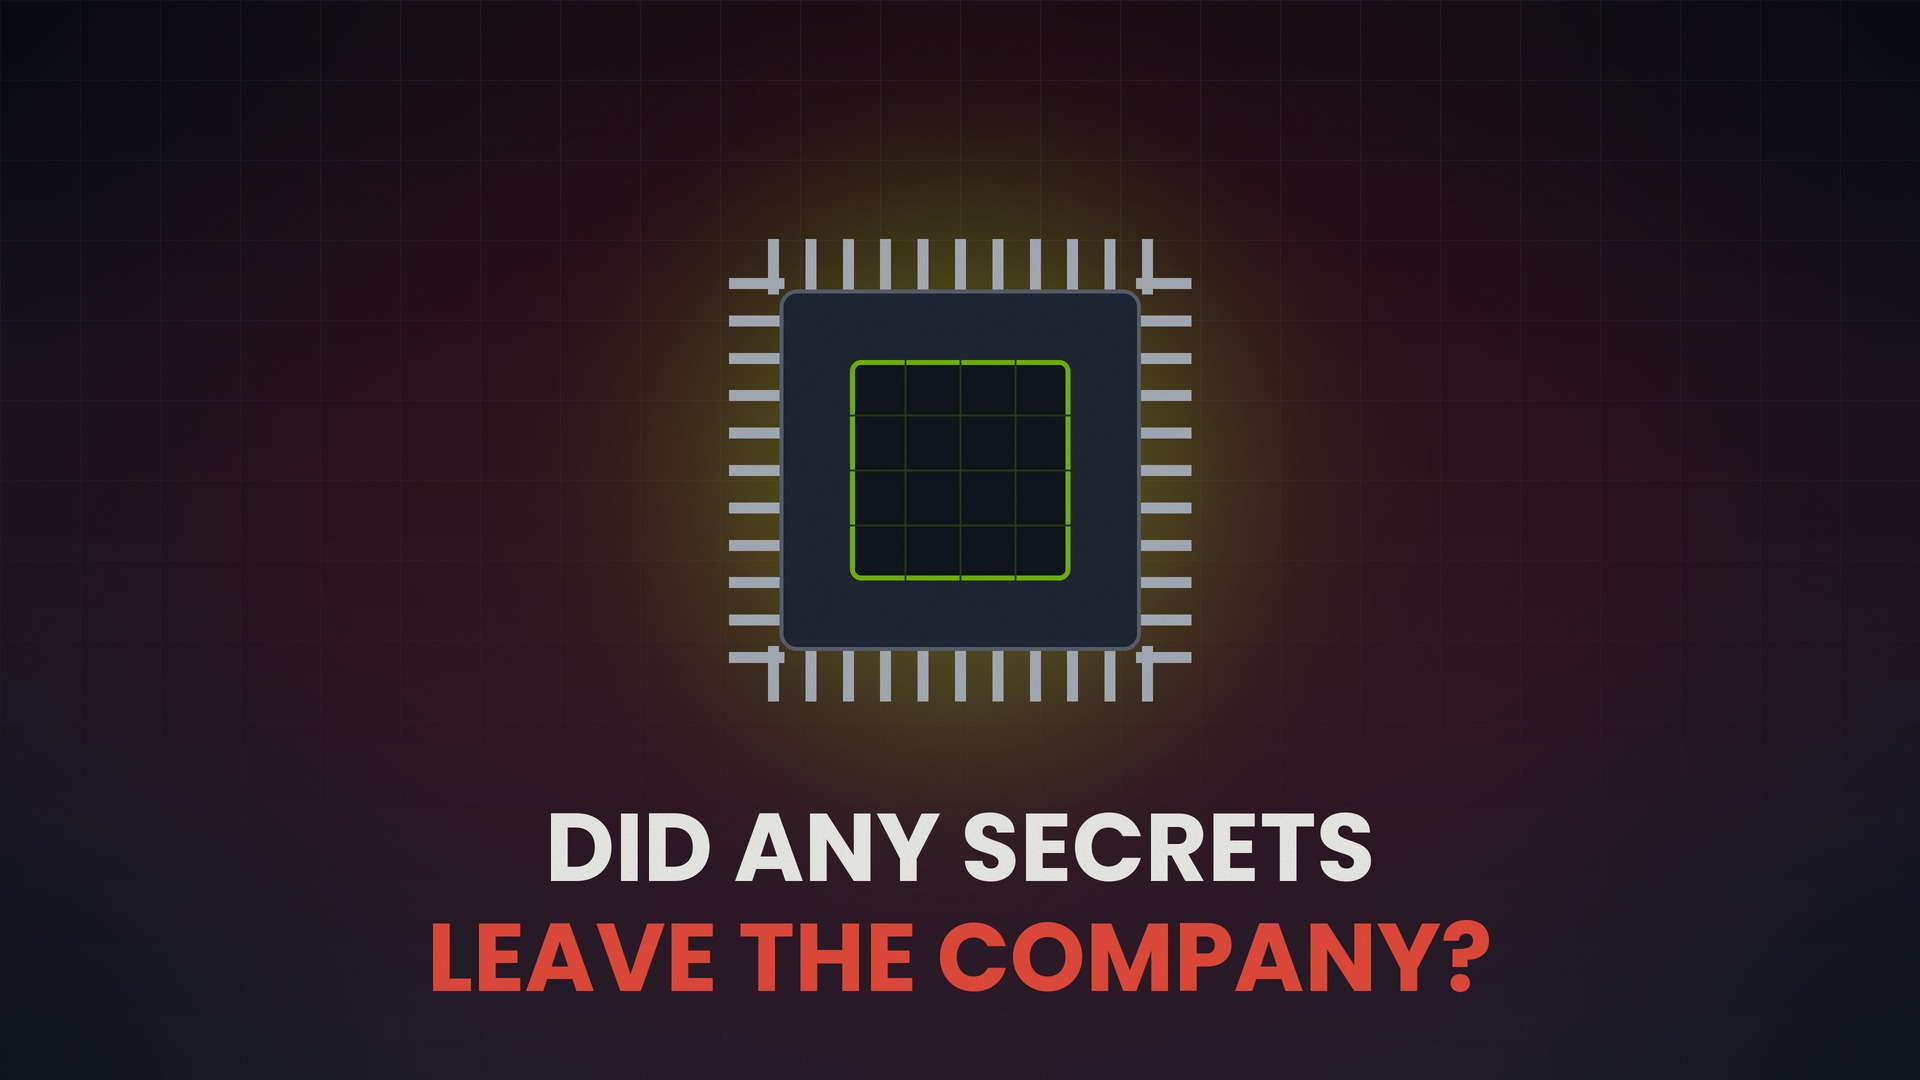
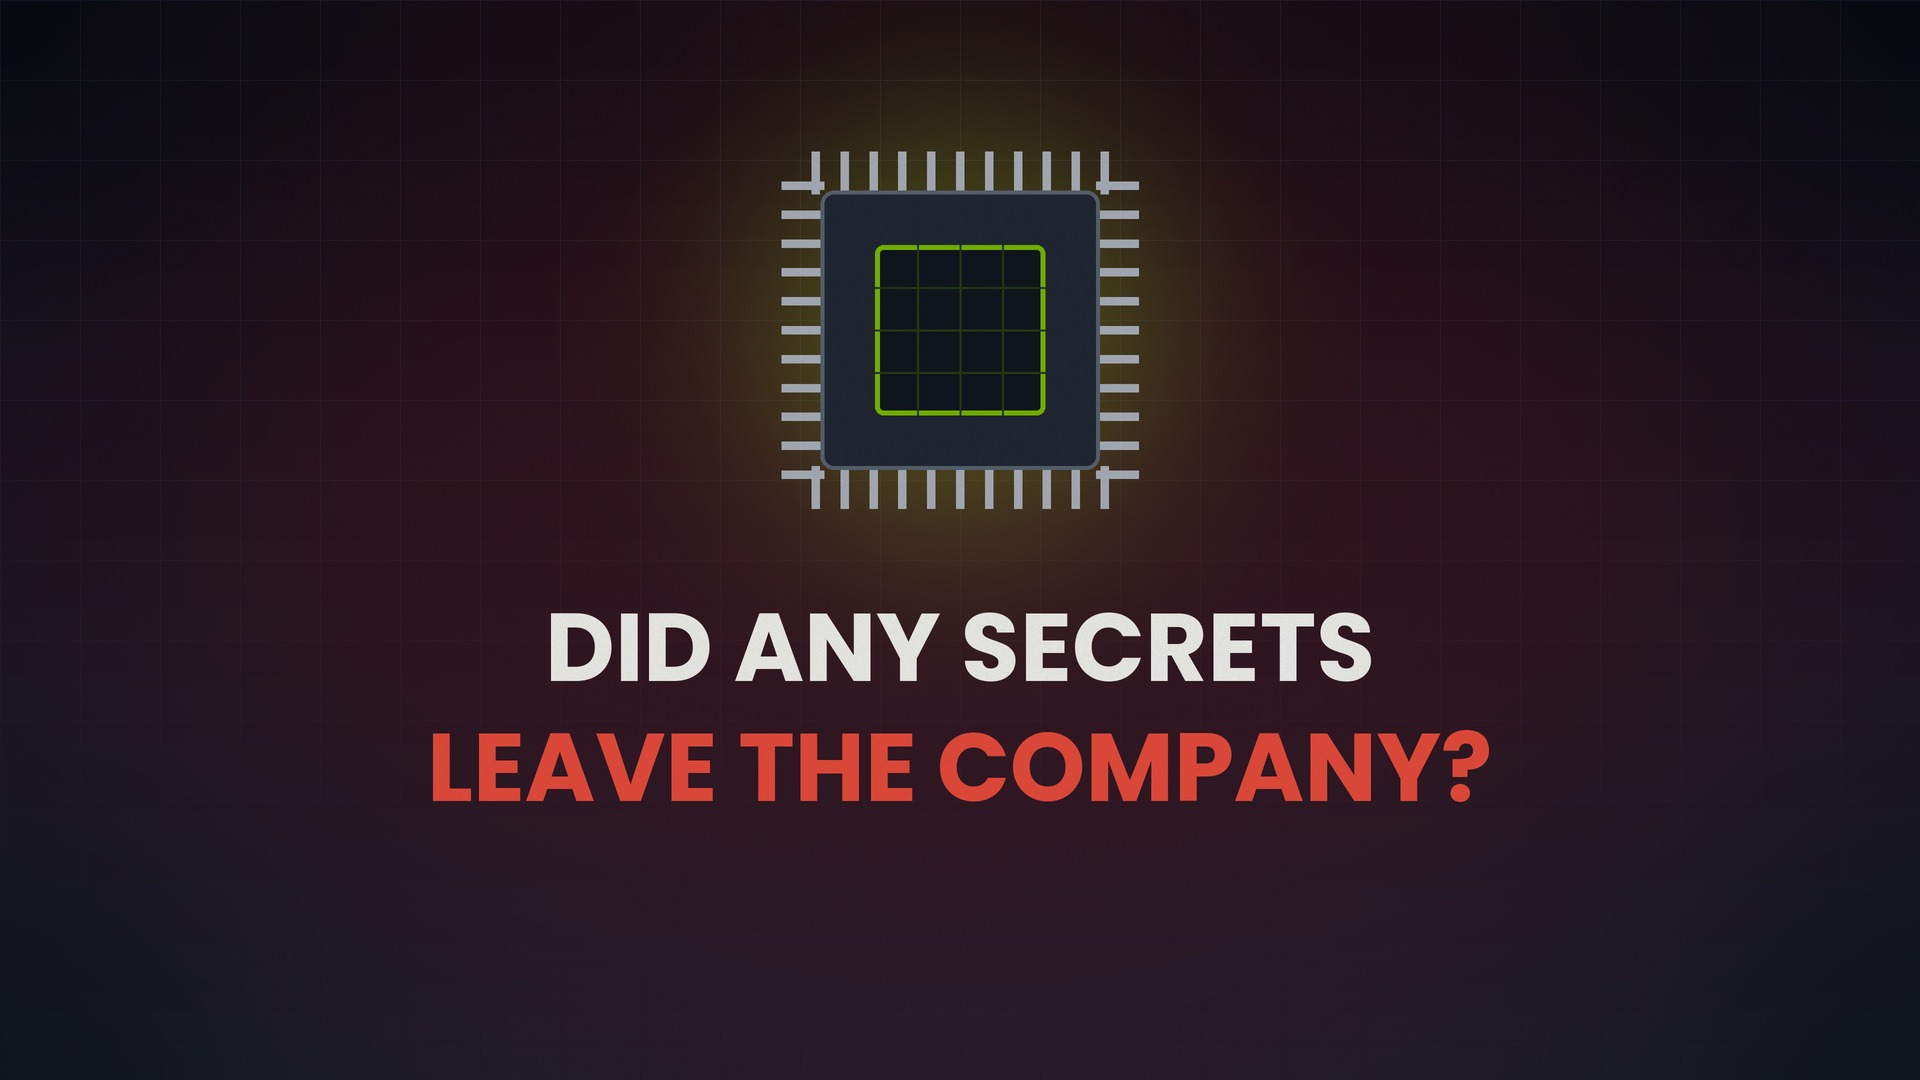
Add Nvidia explainer shots and thumbnail
Claude-Session: https://claude.ai/code/session_01M31u486guU47PUdU315KWu

Changed region(s): [[0.2188, 0.1222, 0.7812, 0.825], [0.2188, 0.8556, 0.7812, 0.9167]]

diff --git a/kit/render.py b/kit/render.py
@@ -67,7 +67,7 @@ RED, WHITE = r"{\c&H3C4CE8&}", r"{\c&HFFFFFF&}"
 ass = ["[Script Info]", "ScriptType: v4.00+", f"PlayResX: {W}", f"PlayResY: {H}", "",
        "[V4+ Styles]",
        "Format: Name, Fontname, Fontsize, PrimaryColour, SecondaryColour, OutlineColour, BackColour, Bold, Italic, Underline, StrikeOut, ScaleX, ScaleY, Spacing, Angle, BorderStyle, Outline, Shadow, Alignment, MarginL, MarginR, MarginV, Encoding",
-       "Style: Cap,Poppins,84,&H00FFFFFF,&H00FFFFFF,&H00101014,&H96000000,-1,0,0,0,100,100,1,0,1,5,0,5,60,60,0,1",
+       f"Style: Cap,Poppins,{int(os.environ.get('CAP_SIZE', '84'))},&H00FFFFFF,&H00FFFFFF,&H00101014,&H96000000,-1,0,0,0,100,100,1,0,1,5,0,5,60,60,0,1",
        "", "[Events]", "Format: Layer, Start, End, Style, Name, MarginL, MarginR, MarginV, Effect, Text"]
 ws = [w for w in words if norm(w["w"])]
 for k in range(0, len(ws), 2):
@@ -78,7 +78,7 @@ for k in range(0, len(ws), 2):
         s = w["s"]
         e = pair[j + 1]["s"] if j + 1 < len(pair) else end_pair
         txt = " ".join((RED if m == j else WHITE) + p["w"].upper().strip(",.;:!?\"") for m, p in enumerate(pair))
-        ass.append(f"Dialogue: 0,{ts(s)},{ts(e)},Cap,,0,0,0,,{{\\pos({W // 2},{int(H * 0.60)})\\blur2}}{txt}")
+        ass.append(f"Dialogue: 0,{ts(s)},{ts(e)},Cap,,0,0,0,,{{\\pos({W // 2},{int(H * float(os.environ.get('CAP_Y', '0.60')))})\\blur2}}{txt}")
 sub = os.path.join(proj, "_captions.ass")
 open(sub, "w").write("\n".join(ass))
 

diff --git a/kit/news_cards.py b/kit/news_cards.py
@@ -341,8 +341,8 @@ def c23():
 
 @card
 def c24():
-    c = Card(24, (36, 0, 0)); c.chip(960, 470, 220)
-    c.text(960, 780, "DID ANY SECRETS", 96, WHITE, anchor="ma"); c.text(960, 890, "LEAVE THE COMPANY?", 96, RED, anchor="ma"); c.save("c24")
+    c = Card(24, (36, 0, 0)); c.chip(960, 330, 170)
+    c.text(960, 580, "DID ANY SECRETS", 96, WHITE, anchor="ma"); c.text(960, 700, "LEAVE THE COMPANY?", 96, RED, anchor="ma"); c.save("c24")
 
 @card
 def c25():
